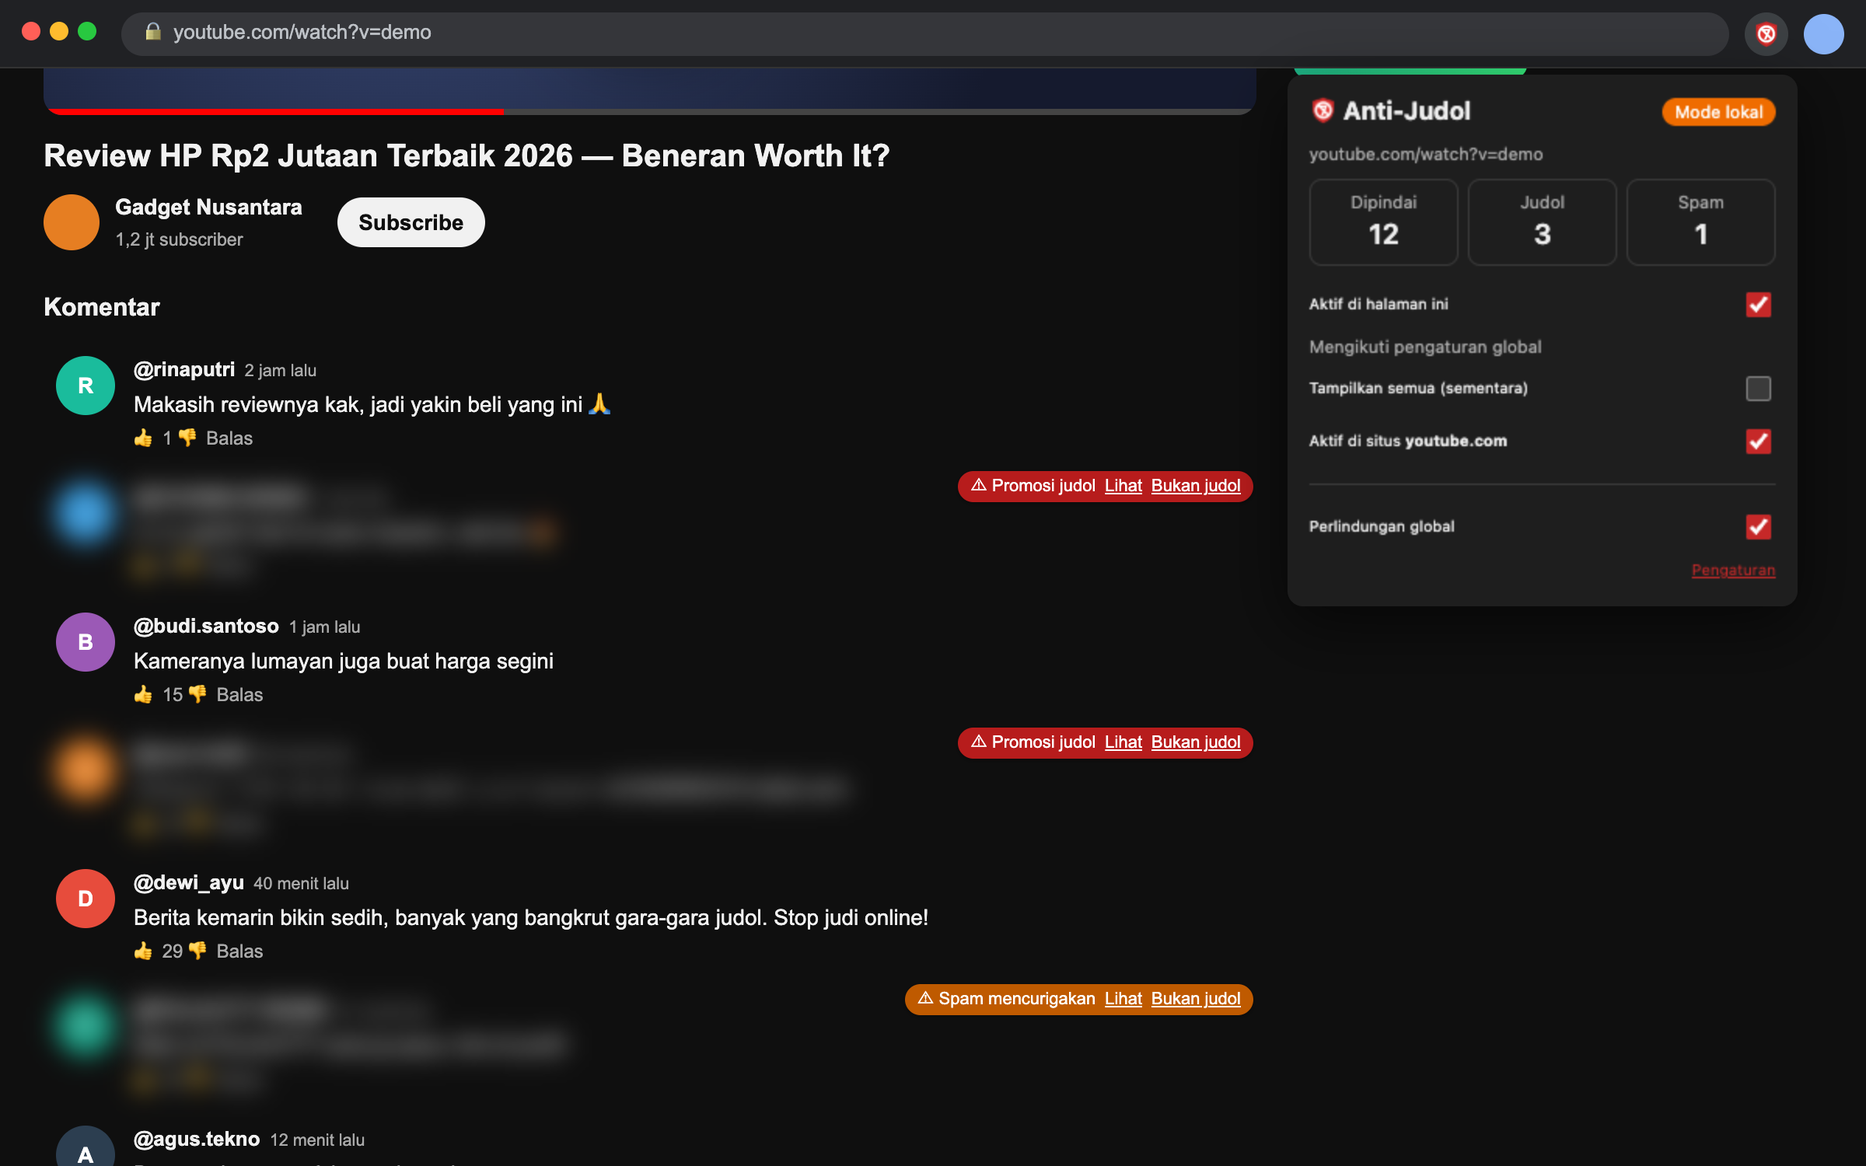
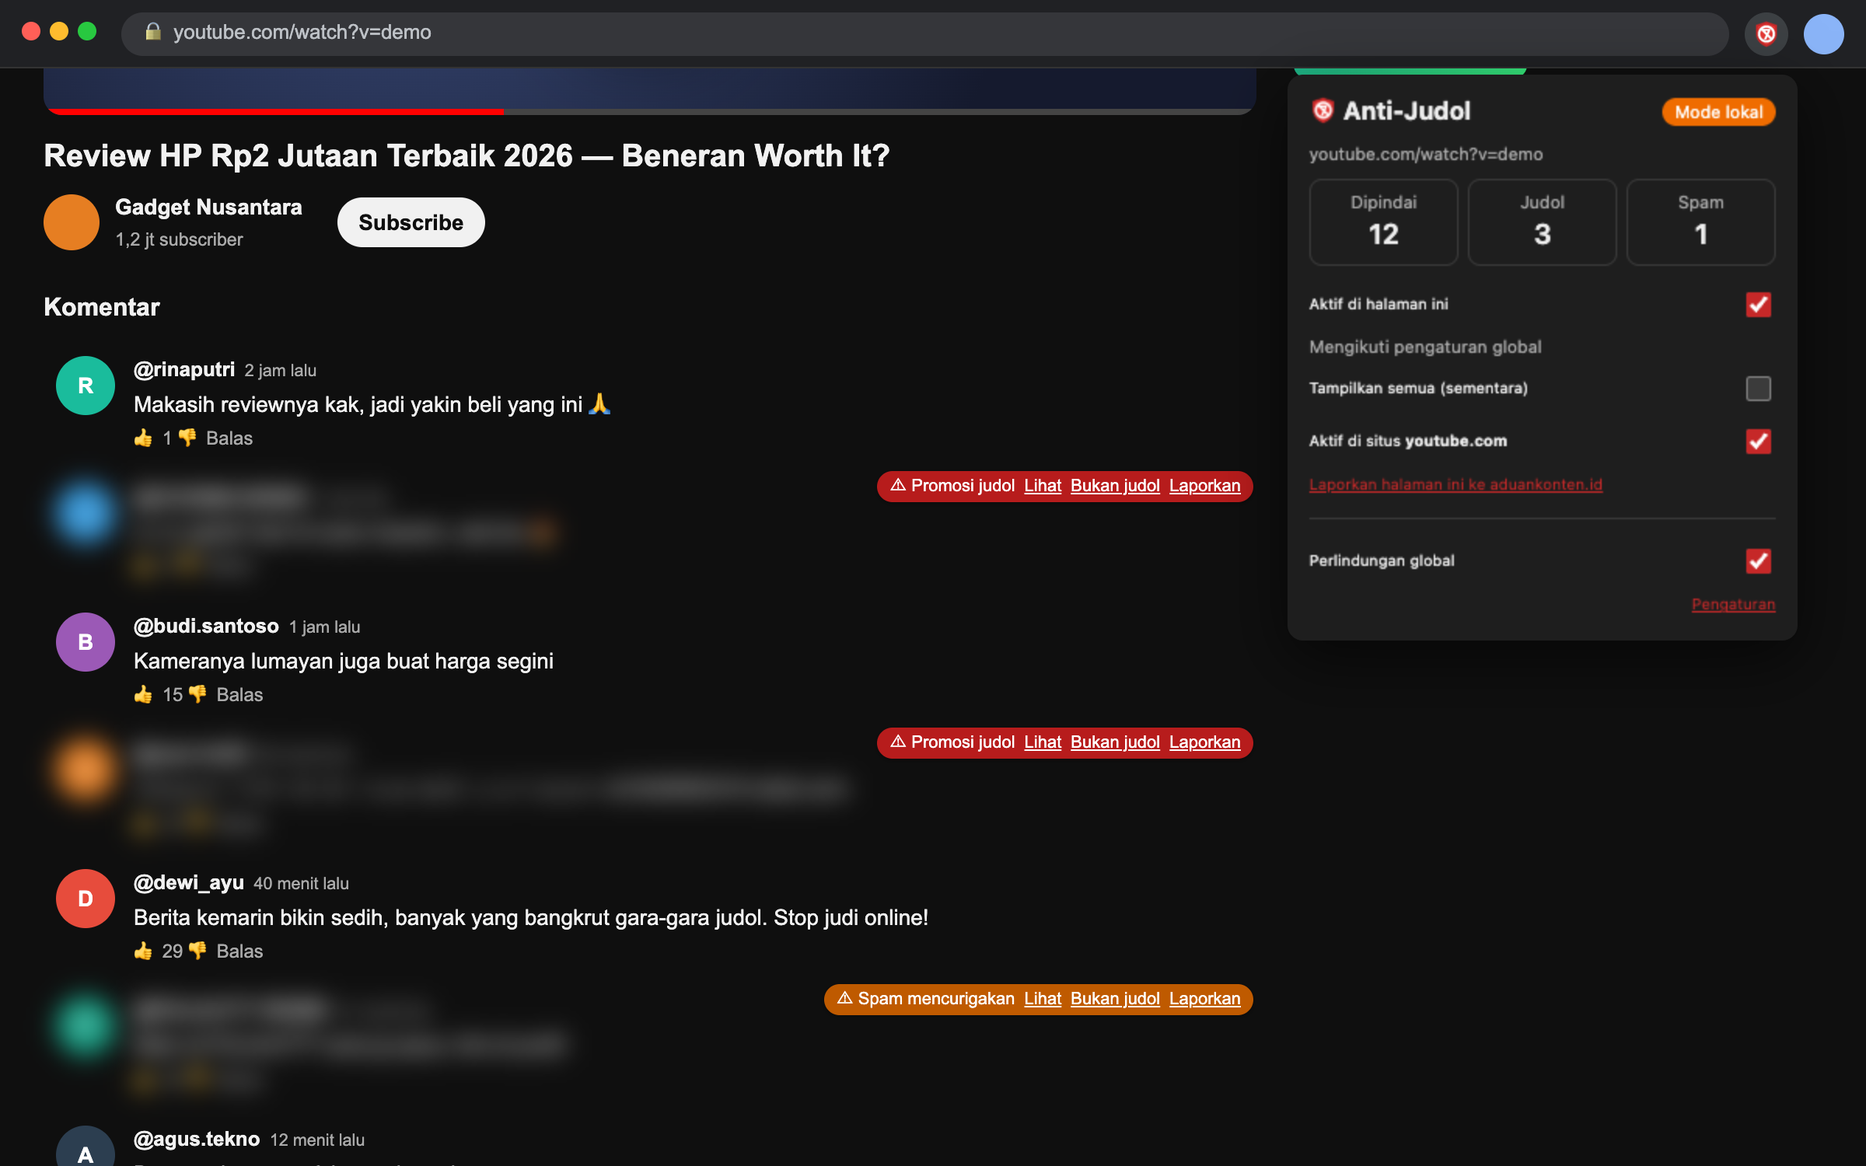
v1.1.0: docs for new features, privilege fix, refreshed demo
- README (en/id): other platforms, site blocking, all-sites mode, Laporkan, custom keywords, sync; new FAQ
- PRIVACY: per-feature data-flow table (blocklist download, all-sites local scan, sync without keys, reports)
- ARCHITECTURE: platforms, DNR blocking, all-sites scanner, sync design
- rules:get is now extension-pages only; test pins the 4 content-safe messages
- Re-recorded demo GIF and screenshot (Laporkan button)

diff --git a/tests/security.test.ts b/tests/security.test.ts
@@ -55,3 +55,15 @@ describe("daily quota", () => {
     expect(r.used).toBe(0);
   });
 });
+
+describe("message privileges", () => {
+  test("content scripts can only send the four page-safe messages", async () => {
+    const { PRIVILEGED } = await import("../src/shared/messages");
+    const src = await Bun.file("src/shared/messages.ts").text();
+    const bg = src.slice(src.indexOf("export interface BgMessages"), src.indexOf("export type BgType"));
+    const all = [...bg.matchAll(/^\s+"?([a-z]+(?::[A-Za-z]+)?)"?: \{ req:/gm)].map((m) => m[1]!);
+    expect(all.length).toBeGreaterThan(15);
+    const open = all.filter((t) => !PRIVILEGED.has(t as never)).sort();
+    expect(open).toEqual(["block:check", "classify", "rule:allow", "state:get"]);
+  });
+});

diff --git a/src/shared/messages.ts b/src/shared/messages.ts
@@ -110,6 +110,7 @@ export type BgRequest<T extends BgType = BgType> = { type: T } & BgMessages[T]["
 export const PRIVILEGED: ReadonlySet<BgType> = new Set<BgType>([
   "settings:get",
   "settings:update",
+  "rules:get",
   "rules:site",
   "rules:page",
   "rules:clearAllow",

diff --git a/README.md b/README.md
@@ -5,7 +5,7 @@
 <h1 align="center">Anti-Judol Shield</h1>
 
 <p align="center">
-  Hides online-gambling ("judol") spam in YouTube comments, live chat, and video titles automatically.<br />
+  Hides online-gambling ("judol") spam in YouTube comments and across the web, and blocks gambling sites.<br />
   <a href="README.id.md">Bahasa Indonesia</a> · <a href="PRIVACY.md">Privacy</a> · <a href="https://github.com/Leon24k/anti-judol/issues">Report a problem</a>
 </p>
 
@@ -31,12 +31,18 @@ Anti-Judol Shield undoes those tricks and blurs the spam before you even see it.
 - **Instant.** Obvious spam is blurred before it appears on screen, so scrolling stays smooth.
 - **Sees through disguises.** It handles spaced-out letters, numbers in place of letters, fancy Unicode fonts, look-alike letters, hidden characters, and disguised links.
 - **Covers comments, live chat, and video titles**, on both desktop and mobile YouTube.
+- **Works beyond YouTube.** Optionally also on X, Reddit, Twitch, Disqus comment sections, and (beta) Facebook, Instagram, and TikTok.
+- **Blocks gambling websites.** Over 140,000 known judol domains are stopped before they load, with a clear warning page instead.
+- **Cleans up ordinary websites (optional).** Hides gambling banners, ad iframes, and spam links on news sites, streaming sites, and blogs, and warns you when a site has been hacked to promote gambling.
+- **Report in one click.** **Laporkan** prepares a ready-to-paste report for [aduankonten.id](https://aduankonten.id), the Indonesian government's content complaint service.
 - **You stay in control:**
   - Click a blurred comment to read it anyway.
   - **"Bukan judol"** ("not gambling") marks a false alarm so it's never hidden again.
   - Turn protection on or off for a single video, for all of YouTube, or everywhere.
   - **"Show all (temporary)"** reveals everything on the current page.
-- **Private by default.** Everything runs on your device. Nothing is sent anywhere unless you turn on AI mode yourself.
+  - Add your own words to always hide or never hide.
+  - Export/import your settings, or sync them across your computers through Chrome.
+- **Private by default.** Everything runs on your device. Nothing about you is sent anywhere unless you turn on AI mode yourself.
 - **Optional AI mode** using [Jev by TypeSafe](https://typesafe.ai) catches subtler spam that doesn't use obvious keywords, such as "modal receh jadi jutaan, cek profil aku".
 
 ## Install
@@ -55,7 +61,7 @@ Until then you can install it manually in Chrome, Edge, Brave, or another Chromi
 2. Open `chrome://extensions` (or `edge://extensions`).
 3. Turn on **Developer mode** (top-right corner).
 4. Click **Load unpacked** and select the `dist` folder.
-5. Open any YouTube video. Gambling spam is blurred automatically.
+5. Open any YouTube video. Gambling spam is blurred automatically, and known gambling sites are blocked.
 
 ## Using it
 
@@ -69,8 +75,17 @@ On a blurred comment:
 
 - **Lihat** ("show") reveals it, and **Sembunyikan** ("hide") covers it again.
 - **Bukan judol** means it isn't gambling spam. It's un-hidden and won't be hidden again.
+- **Laporkan** copies a report (link, the comment, and when you saw it) and opens aduankonten.id. Paste it into the form and submit. Nothing is sent automatically.
 
 More options, like choosing between blurring and hiding completely, sensitivity, and which areas to scan, are in **Settings** (right-click the icon → *Options*).
+
+## Beyond YouTube
+
+All of these are in **Settings**. Chrome asks for permission for each one when you switch it on, and you can revoke it any time.
+
+- **Other platforms.** Under **Platform**, tick X, Reddit, Twitch, Disqus, Facebook, Instagram, or TikTok. Chrome only asks for access to that one site. Reload any tabs of that site that are already open.
+- **Gambling-site blocking** is on by default. It uses the community-maintained [HaGeZi Gambling list](https://github.com/hagezi/dns-blocklists), refreshed every 12 hours, and you can add your own domains. Government, campus, bank, and major-platform sites are never blocked, even if a list is wrong. If a site is blocked by mistake, choose **Ini bukan situs judi?** on the warning page.
+- **All sites.** Switch on **Sembunyikan iklan, banner & link judi di semua situs** to clean up gambling ads everywhere. This needs permission for all sites. The checking is done entirely on your device: page content is never sent anywhere, not even in AI mode. It also turns the blocked-site error screen into a friendly warning page.
 
 ## AI mode (optional)
 
@@ -84,9 +99,9 @@ When AI mode is on, the text of comments you scroll past, plus the commenter's d
 
 ## Privacy
 
-- Without AI mode, **no data leaves your computer**.
+- Without AI mode, **nothing about you leaves your computer**. The only automatic download is the public list of gambling domains.
 - There are no accounts, no tracking, no analytics, and no servers run by us.
-- The extension only runs on YouTube.
+- The extension runs on YouTube, plus only the sites you enable. Blocking is done by Chrome itself, so the extension never sees which sites you visit.
 
 Full details are in the [privacy policy](PRIVACY.md).
 
@@ -101,6 +116,12 @@ Turn on AI mode or raise the sensitivity. Please also report examples so the bui
 **Does it slow down YouTube?**
 No. Checking a comment takes a fraction of a millisecond, and only comments near your screen are checked.
 
+**Why does it want access to "all sites"?**
+It doesn't, unless you switch on the all-sites option. YouTube works without it, and the other platforms each ask only for their own site. Blocking gambling sites works without it too; you just see Chrome's error screen instead of the warning page.
+
+**A normal website got blocked.**
+Open **Ini bukan situs judi?** on the warning page and choose **Bukan situs judi, jangan blokir lagi**. You can also add it under **Jangan pernah blokir** in Settings. Please [report it](https://github.com/Leon24k/anti-judol/issues) so the list can be fixed.
+
 **Does it work in other languages?**
 The built-in filter is tuned for Indonesian and English gambling spam. AI mode understands more languages.
 
@@ -114,4 +135,4 @@ bun run check   # typecheck + unit tests + build
 bun run e2e     # end-to-end test in a real Chrome
 ```
 
-YouTube changes its page structure from time to time. If the extension suddenly stops working, the selectors in `src/content/adapters.ts` usually need an update.
+Websites change their page structure from time to time. If the extension suddenly stops working on a site, the selectors for that platform in `src/content/adapters.ts` usually need an update.

diff --git a/README.id.md b/README.id.md
@@ -5,7 +5,7 @@
 <h1 align="center">Anti-Judol Shield</h1>
 
 <p align="center">
-  Otomatis menyembunyikan spam judi online (judol) di komentar, live chat, dan judul video YouTube.<br />
+  Menyembunyikan spam judi online (judol) di YouTube dan di berbagai situs, serta memblokir situs judi.<br />
   <a href="README.md">English</a> · <a href="PRIVACY.md">Privasi</a> · <a href="https://github.com/Leon24k/anti-judol/issues">Laporkan masalah</a>
 </p>
 
@@ -31,12 +31,18 @@ Anti-Judol Shield membongkar penyamaran itu dan mem-blur spamnya sebelum sempat 
 - **Instan.** Spam yang jelas langsung di-blur sebelum muncul di layar, dan scroll tetap mulus.
 - **Tembus penyamaran.** Mengenali huruf berspasi, angka pengganti huruf, font Unicode aneh, huruf kembar dari alfabet lain, karakter tersembunyi, dan link yang disamarkan.
 - **Bekerja di komentar, live chat, dan judul video**, di YouTube desktop maupun mobile.
+- **Tidak cuma YouTube.** Bisa juga dinyalakan untuk X, Reddit, Twitch, kolom komentar Disqus, serta (beta) Facebook, Instagram, dan TikTok.
+- **Memblokir situs judi.** Lebih dari 140.000 domain judol dihentikan sebelum sempat dimuat, dan kamu melihat halaman peringatan sebagai gantinya.
+- **Membersihkan situs biasa (opsional).** Menyembunyikan banner judi, iframe iklan, dan link spam di situs berita, streaming, maupun blog. Juga memberi peringatan kalau sebuah situs diretas untuk promosi judi.
+- **Lapor dengan sekali klik.** Tombol **Laporkan** menyiapkan laporan yang tinggal ditempel ke [aduankonten.id](https://aduankonten.id), layanan aduan konten milik Komdigi.
 - **Kamu yang pegang kendali:**
   - Klik komentar yang di-blur kalau tetap ingin membacanya.
   - Tombol **"Bukan judol"** memperbaiki salah deteksi supaya komentar itu tidak disembunyikan lagi.
   - Perlindungan bisa dimatikan untuk satu video saja, untuk seluruh YouTube, atau total.
   - **"Tampilkan semua (sementara)"** menampilkan semua komentar di halaman yang sedang dibuka.
-- **Privat sejak awal.** Semua berjalan di perangkatmu. Tidak ada data yang dikirim kecuali kamu sendiri yang menyalakan mode AI.
+  - Tambahkan kata kunci sendiri yang selalu disembunyikan atau tidak pernah disembunyikan.
+  - Ekspor/impor pengaturan, atau sinkronkan antar komputer lewat akun Chrome.
+- **Privat sejak awal.** Semua berjalan di perangkatmu. Tidak ada data tentang kamu yang dikirim kecuali kamu sendiri yang menyalakan mode AI.
 - **Mode AI opsional** memakai [Jev dari TypeSafe](https://typesafe.ai) untuk menangkap spam halus tanpa kata kunci jelas, misalnya "modal receh jadi jutaan, cek profil aku".
 
 ## Instalasi
@@ -55,7 +61,7 @@ Sementara itu, pasang manual di Chrome, Edge, Brave, atau browser Chromium lain:
 2. Buka `chrome://extensions` (atau `edge://extensions`).
 3. Nyalakan **Developer mode** di pojok kanan atas.
 4. Klik **Load unpacked**, lalu pilih folder `dist`.
-5. Buka video YouTube mana saja. Spam judi akan langsung di-blur.
+5. Buka video YouTube mana saja. Spam judi akan langsung di-blur, dan situs judi yang dikenal otomatis diblokir.
 
 ## Cara pakai
 
@@ -69,8 +75,17 @@ Di komentar yang di-blur:
 
 - **Lihat** membuka komentarnya, dan **Sembunyikan** menutupnya lagi.
 - **Bukan judol** menandai bahwa itu bukan spam judi. Komentar langsung dibuka dan tidak akan disembunyikan lagi.
+- **Laporkan** menyalin isi laporan (link, isi komentar, dan waktunya) lalu membuka aduankonten.id. Tempel ke formulirnya dan kirim. Tidak ada yang terkirim otomatis.
 
 Pengaturan lain ada di menu **Pengaturan** (klik kanan ikon → *Options*), misalnya pilihan blur atau sembunyikan total, tingkat sensitivitas, dan area yang dipindai.
+
+## Di luar YouTube
+
+Semua fitur ini ada di **Pengaturan**. Chrome akan meminta izin saat masing-masing fitur dinyalakan, dan izinnya bisa dicabut kapan saja.
+
+- **Platform lain.** Di bagian **Platform**, centang X, Reddit, Twitch, Disqus, Facebook, Instagram, atau TikTok. Chrome hanya meminta akses ke situs itu saja. Muat ulang tab situs tersebut yang sudah terbuka.
+- **Blokir situs judi** aktif sejak awal. Fitur ini memakai [daftar HaGeZi Gambling](https://github.com/hagezi/dns-blocklists) yang dikelola komunitas dan diperbarui tiap 12 jam, dan kamu bisa menambahkan domain sendiri. Situs pemerintah, kampus, bank, dan platform besar tidak akan pernah diblokir, meskipun daftarnya keliru. Kalau ada situs yang salah diblokir, pilih **Ini bukan situs judi?** di halaman peringatan.
+- **Semua situs.** Nyalakan **Sembunyikan iklan, banner & link judi di semua situs** untuk membersihkan iklan judi di mana saja. Fitur ini butuh izin akses ke semua situs. Pemeriksaannya sepenuhnya di perangkatmu: isi halaman tidak pernah dikirim ke mana pun, termasuk ke AI. Dengan fitur ini, situs judi yang diblokir juga menampilkan halaman peringatan yang jelas, bukan layar error.
 
 ## Mode AI (opsional)
 
@@ -84,9 +99,9 @@ Saat mode AI aktif, teks komentar yang kamu scroll dan nama pengirimnya dikirim 
 
 ## Privasi
 
-- Tanpa mode AI, **tidak ada data yang keluar dari komputermu**.
+- Tanpa mode AI, **tidak ada data tentang kamu yang keluar dari komputermu**. Satu-satunya unduhan otomatis adalah daftar publik domain judi.
 - Tidak ada akun, pelacakan, analitik, maupun server milik kami.
-- Ekstensi hanya berjalan di YouTube.
+- Ekstensi berjalan di YouTube dan di situs yang kamu aktifkan saja. Pemblokiran dilakukan Chrome sendiri, jadi ekstensi tidak tahu situs apa saja yang kamu buka.
 
 Detail lengkap ada di [kebijakan privasi](PRIVACY.md).
 
@@ -100,6 +115,12 @@ Nyalakan mode AI atau naikkan sensitivitas. Contoh spam yang lolos juga sangat m
 
 **Bikin YouTube lemot nggak?**
 Tidak. Pemeriksaan per komentar butuh kurang dari satu milidetik, dan hanya komentar di dekat layar yang diperiksa.
+
+**Kenapa minta akses "semua situs"?**
+Tidak diminta, kecuali kamu menyalakan opsi semua situs. YouTube jalan tanpa izin itu, dan platform lain hanya meminta akses ke situsnya masing-masing. Pemblokiran situs judi juga tetap jalan tanpa izin itu, bedanya kamu akan melihat layar error Chrome, bukan halaman peringatan.
+
+**Situs biasa ikut terblokir.**
+Di halaman peringatan, buka **Ini bukan situs judi?** lalu pilih **Bukan situs judi, jangan blokir lagi**. Bisa juga dengan menambahkannya di **Jangan pernah blokir** di Pengaturan. Tolong [laporkan juga](https://github.com/Leon24k/anti-judol/issues) supaya daftarnya bisa diperbaiki.
 
 **Bisa untuk bahasa lain?**
 Filter bawaan dirancang untuk spam judi berbahasa Indonesia dan Inggris. Mode AI memahami lebih banyak bahasa.

diff --git a/PRIVACY.md b/PRIVACY.md
@@ -1,47 +1,67 @@
-# Privacy Policy — Anti-Judol Shield
+# Privacy Policy: Anti-Judol Shield
 
 _Last updated: 2026-09-30_
 
-Anti-Judol Shield is a browser extension that hides online-gambling ("judol") promotion in YouTube comments, live chat, and video titles.
+Anti-Judol Shield is a browser extension that hides online-gambling ("judol") promotion. It works on YouTube and on other sites you choose, and it blocks known gambling websites.
 
 ## Summary
 
-- **By default, nothing leaves your device.** Detection runs locally with an on-device filter.
-- Cloud classification is **off by default** and only runs if you (1) enter your own API key and (2) tick the consent checkbox in Settings.
+- **Detection runs on your device.** Comments, pages, and the sites you visit are checked locally.
+- **Nothing about you is sent anywhere by default.** The only automatic download is a public list of gambling domains. Downloading it sends nothing about you.
+- **Optional features that send data only work after you turn them on:**
+  - AI mode, which requires your own API key and a consent checkbox.
+  - Chrome Sync.
 - We (the developers) run no servers and receive **no data at all**.
 
-## What is processed
+## What is processed, and where
 
-| Data | Where | When |
+| Feature | Data | Leaves your device? |
 |---|---|---|
-| Text of YouTube comments, live-chat messages, and video titles visible on the page, plus the sender's display name | Your device (always) | While the extension is active on youtube.com |
-| The same text and display name | Sent to `api.typesafe.ai` (TypeSafe Jev), and to `openrouter.ai` only if you entered an OpenRouter fallback key | Only after you enable cloud classification |
+| Comment filter (YouTube, and other platforms you enable) | Text and sender name of visible comments, live-chat messages, and titles | No |
+| Gambling-site blocking | Addresses of pages you open. Chrome matches them against the blocklist itself, and the extension never sees them. | No |
+| Blocklist updates | A download of a public domain list from `cdn.jsdelivr.net` about every 12 hours. No personal data is included. Like any web request, it reveals your IP address to jsDelivr. | Download only |
+| All-sites mode (optional) | Links, image addresses, and alt text of banners on pages you visit, plus page titles | No, and never sent to AI |
+| AI mode (optional) | Text and sender name of visible comments, live-chat messages, and titles, on supported platforms only | Yes, to `api.typesafe.ai`, and to `openrouter.ai` if you set a fallback key |
+| Chrome Sync (optional) | Your settings, site rules, whitelist hashes, and custom keywords. **Never API keys.** | Yes, to your own Google account via Chrome Sync |
+| "Laporkan" (report) | A report text copied to your clipboard. aduankonten.id then opens for you to paste and submit yourself. | Only if you submit it |
 
-No URLs, browsing history, cookies, account information, IP-derived identifiers, or other page content are collected or sent by the extension. The requests go directly from your browser to the provider using **your** API key; they are subject to that provider's privacy policy:
+AI requests go directly from your browser to the provider, using **your** API key. They are covered by that provider's privacy policy:
 
 - TypeSafe: <https://docs.typesafe.ai/legal>
 - OpenRouter: <https://openrouter.ai/privacy>
 
-## What is stored (on your device only)
+The extension never collects or sends your browsing history, cookies, account information, or form contents.
 
-Stored in `chrome.storage.local`, which is not accessible to websites or content scripts:
+## What is stored on your device
 
-- Your settings and API key(s)
-- Per-page / per-site on-off rules
-- Hashes of comments you marked "Bukan judol" (not the text itself)
-- A daily counter of how many items were sent (for the daily limit)
+The following is kept in `chrome.storage.local`, which websites and content scripts cannot read:
 
-A short-lived cache of classification results (keyed by a hash of the text) is kept in memory/session storage and is cleared when the browser restarts. Uninstalling the extension deletes all of it. You can also clear the whitelist and cache from Settings at any time.
+- settings and API keys
+- on/off rules per page and per site
+- hashes of comments you marked "Bukan judol" (not the text itself)
+- your custom keywords and domains
+- the downloaded blocklist
+- a daily usage counter
+
+A short-lived cache of classification results, keyed by a hash of the text, is cleared when the browser restarts.
+
+Uninstalling the extension deletes all of this. You can also clear the whitelist, the cache, and synced data from Settings at any time.
 
 ## Sharing and sale
 
-The developers do not collect, sell, share, or transfer user data. Data is not used for advertising, creditworthiness, or any purpose other than the single purpose of the extension: detecting and hiding gambling promotion.
+The developers do not collect, sell, share, or transfer user data. Data is not used for advertising, for creditworthiness, or for any purpose other than detecting, hiding, and blocking gambling promotion.
 
 ## Permissions
 
 - `storage`: save your settings on your device.
-- `https://www.youtube.com/*`, `https://m.youtube.com/*`: read visible comments/titles/chat to detect gambling spam.
-- `https://api.typesafe.ai/*`, `https://openrouter.ai/*`: send text for classification, only when you enable it.
+- `scripting`: run the filter on the extra platforms you enable.
+- `declarativeNetRequest`: let Chrome block known gambling sites without the extension seeing your browsing.
+- `alarms`: refresh the blocklist periodically.
+- `https://www.youtube.com/*`, `https://m.youtube.com/*`: read visible comments, titles, and chat.
+- `https://api.typesafe.ai/*`, `https://openrouter.ai/*`: optional AI classification.
+- Optional, and only requested when you turn the feature on:
+  - X, Reddit, Twitch, Disqus, Facebook, Instagram, TikTok: filter comments on that platform.
+  - "All sites": hide gambling ads and show a warning page instead of blocked sites.
 
 ## Contact
 
